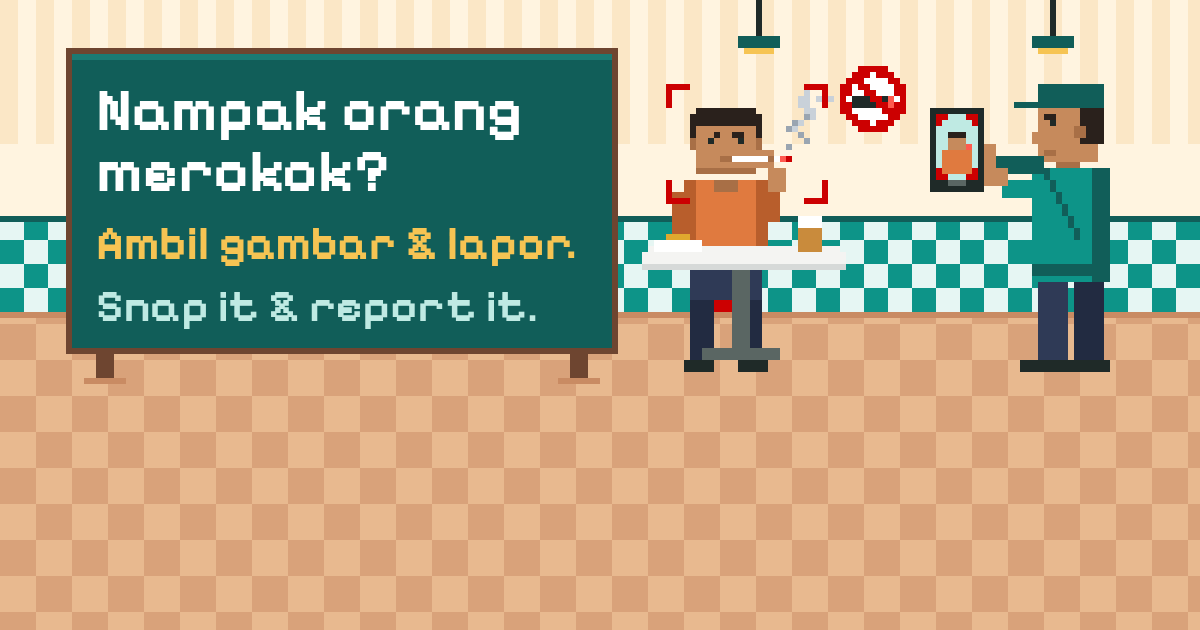
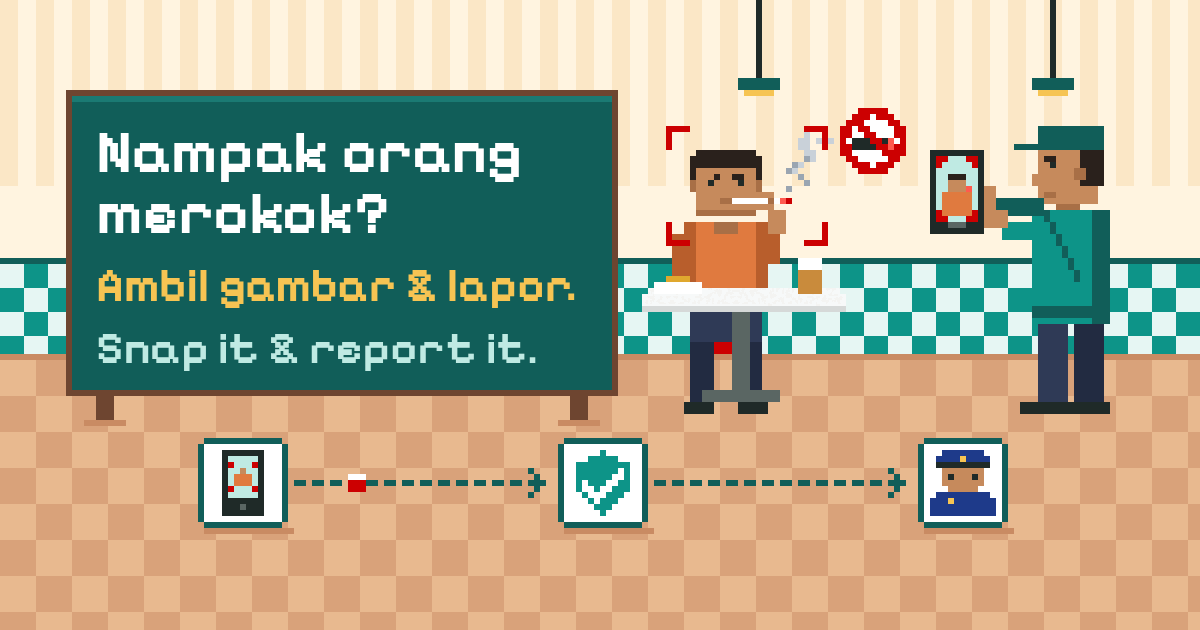
Fill the poster's empty floor with the report's path
The first poster left roughly its bottom 40% as bare floor. At full size that
read as breathing room; in the 190 px band on a Pixel 5 it read as dead space,
with the chalkboard and both figures crowded into the top edge.

The revision draws the report's path across that floor — phone, verified
shield, officer — so the lower half now carries the one thing the poster was
not saying: that a report goes somewhere. The animated patch grows from
342 x 126 to 660 x 372 at +348,+120, adding dots travelling along the dashed
arrows, and stays inside the safe zone.

Same envelope otherwise: 1200 x 630, four frames at 350 ms, looping, fully
opaque. No code changes, so the reduced-motion branch and its tests apply
unchanged; the still frame is regenerated from the new frame 0.

Both worst-case crops were re-rendered at true display size. The chalkboard,
all four lines, both figures and the whole flow row survive at 1.726 and at
2.095.

diff --git a/docs/home-poster-prompt.md b/docs/home-poster-prompt.md
@@ -167,15 +167,17 @@ the crop range in the table above.
 
 | File | What it is |
 | --- | --- |
-| `home-poster.webp` | The poster. 1200 x 630, four frames at 350 ms, looping indefinitely. The motion is a camera reticle and a smoke plume in a 342 x 126 patch at +666,+78 — inside the safe zone. |
+| `home-poster.webp` | The poster. 1200 x 630, four frames at 350 ms, looping indefinitely. The motion is a camera reticle, a smoke plume and dots travelling along the flow arrows, in a 660 x 372 patch at +348,+120 — inside the safe zone. |
 | `home-poster-still.png` | Its first frame, flattened to PNG8. Shown when the device asks for reduced motion. |
 
 Pixel-art diner scene: a chalkboard reading "Nampak orang merokok? / Ambil
 gambar & lapor. / Snap it & report it.", a seated smoker under a camera
-reticle, and an officer photographing them. Both worst-case crops — 1.726 and
-2.095 — keep the whole chalkboard, all four lines and both figures.
+reticle, an officer photographing them, and across the floor below, the
+report's path drawn as phone to verified shield to officer. Both worst-case
+crops — 1.726 and 2.095 — keep the whole chalkboard, all four lines, both
+figures and the entire flow row.
 
-It departs from the prompt above in three ways, all deliberate choices by
+It departs from the prompt above in two ways, both deliberate choices by
 whoever commissioned it rather than mistakes:
 
 - **It animates.** The prompt asked for a static poster. This is why
@@ -185,8 +187,6 @@ whoever commissioned it rather than mistakes:
   bilingual Malay and English. The smallest line measures about 40 px on the
   canvas against the 46 px floor the prompt sets, so it renders at roughly
   12 logical px on a 390 dp phone: legible, but the tightest thing on Home.
-- **Roughly the bottom 40% is empty floor**, so the composition sits high in
-  the 190 px band.
 
 Pixel art is arguably more on-brand than the prompt's flat-geometric brief
 suggests — the SCOPE mark is itself pixel art on a 32-unit grid, as
